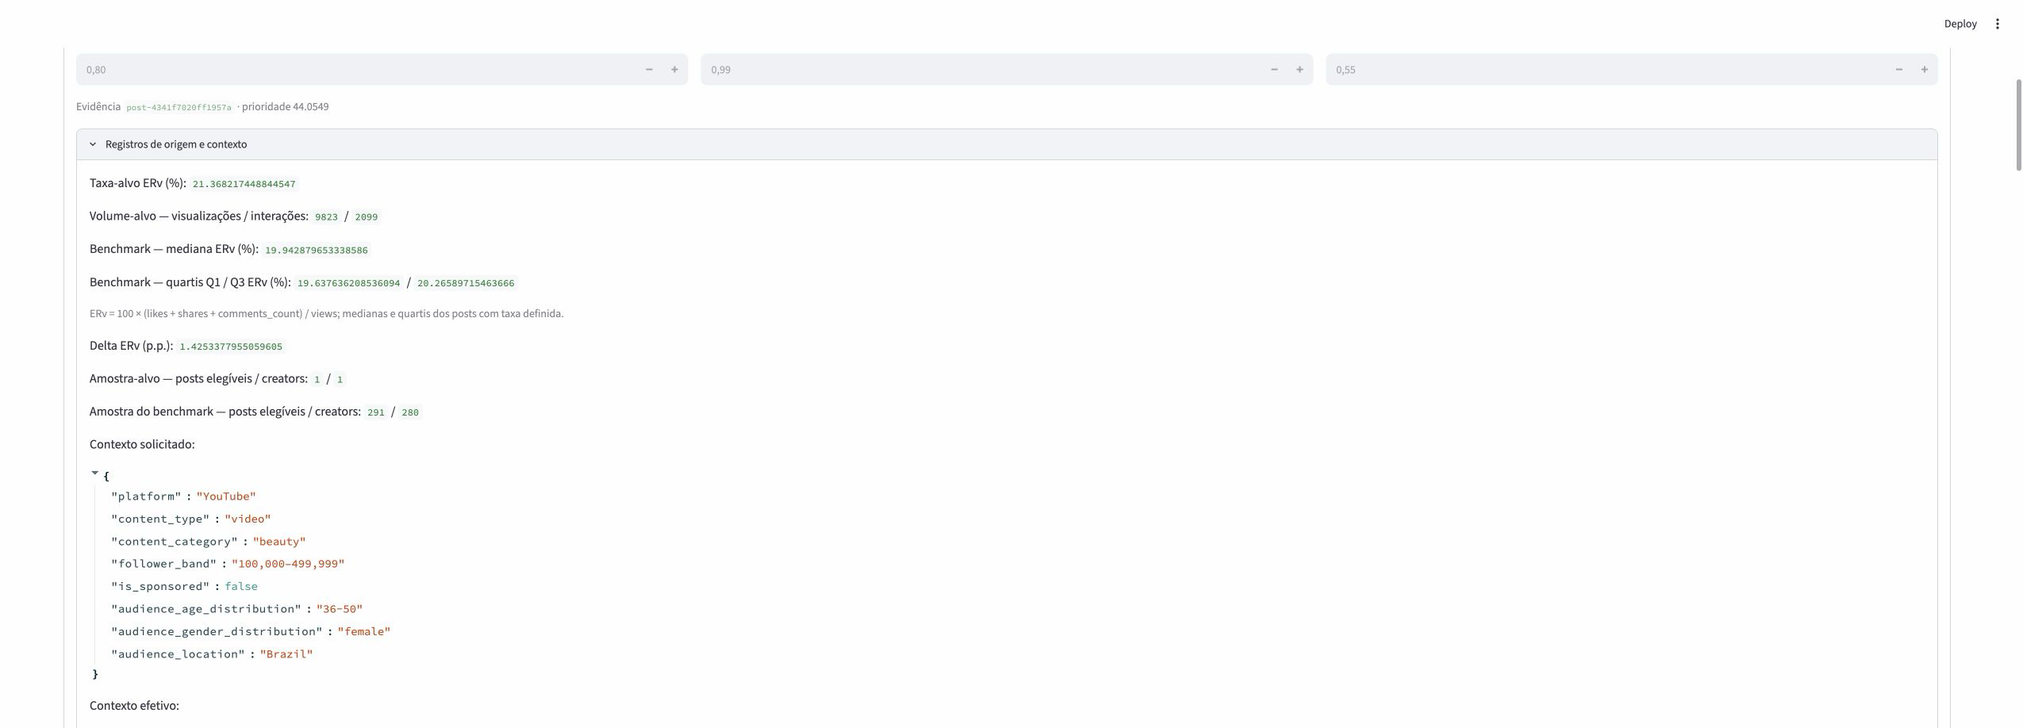
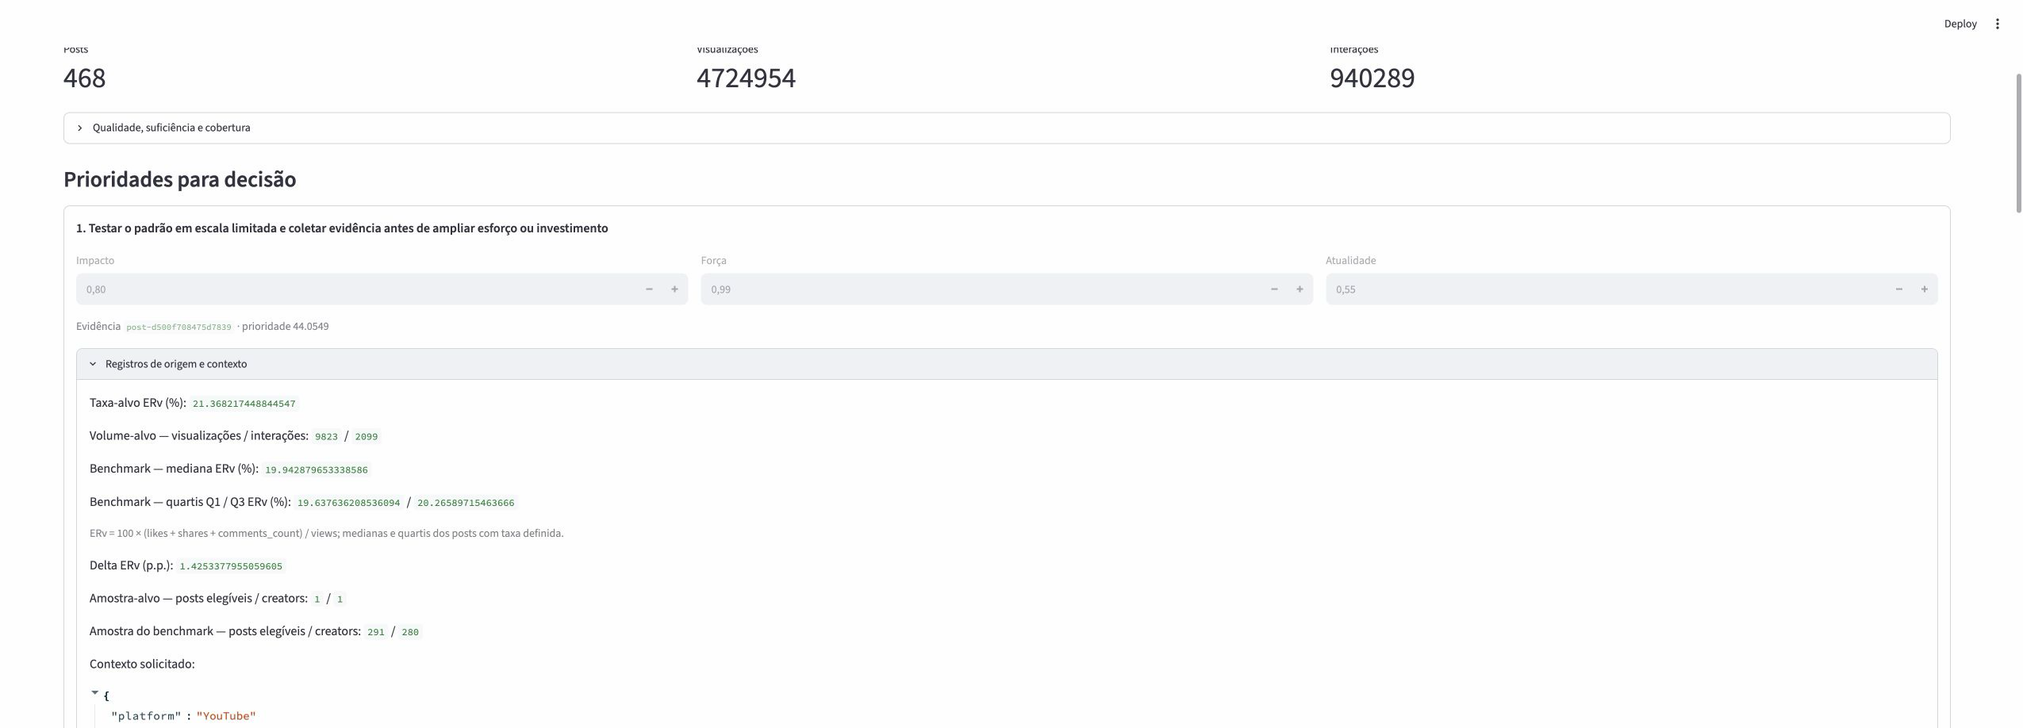
docs(004): consolidate pass 5 acceptance

diff --git a/submissions/luis-roquette/process-log/004-social.md b/submissions/luis-roquette/process-log/004-social.md
@@ -490,6 +490,7 @@ Este ledger registra todas as perguntas, respostas, correções e decisões da d
 - **Atualização da Redundância Passada 2:** I38–I40 elevaram o método a `2.0.0`, fecharam parser/bordas/filtros, publicaram alvo e comparador, responderam audiência condicionada e preservaram snapshot/contrato de observação. O gate vigente é **102/102**; hashes atuais: CSV `017588dfa23f…`, Markdown `c65b42f631c…`, HTML `a90d85f64b20…`. As provas focais de I41 substituem as imagens antigas; HR-01 continua pendente.
 - **Atualização da Redundância Passada 3:** I42–I43 elevaram o contrato ativo a `2.1.0`, fecharam datas e inteiros nas bordas, impediram ação forte sobre sinal negativo fraco e criaram a barreira final `export_field`. O gate vigente é **109/109**; hashes atuais: CSV `3a91736cd23c…`, Markdown `8fd5a1e524b7…`, HTML `a5cf43b65d56…`. A prova focal de fonte/qualidade foi renovada em I44; históricos 2.0.0 permanecem apenas como eventos legíveis e incompatíveis. HR-01 continua pendente.
 - **Atualização da Redundância Passada 4:** a auditoria encontrou quatro lacunas e, portanto, foi **clean=false**: mediana temporal incorreta no editorial, overflow derivado no limite de 2262, perda da fila além do top 3 e ausência de metadados de período parcial no export. Os commits `d2d5c879`, `92a05dc` e `6499f7c` corrigiram os quatro pontos, elevaram o método a `2.2.0` e o gate a **116/116**. Hashes atuais: CSV `9fb2d4dbc769…`, Markdown `4038018d466e…`, HTML `99a493cbc7cd…`. Esta passada reinicia o contador: **0 de 2 passadas limpas**.
+- **Atualização da Redundância Passada 5:** a auditoria encontrou duas lacunas e, portanto, foi **clean=false**: o CSV perdia recomendações além do top 3 e a cronologia de outcomes misturava calendário civil da fonte com UTC. `d2d2dbe` e `56546aa` fecharam fila/baseline integral e calendário `+14:00`/`-12:00`/naive, elevaram o método a `2.3.0` e o gate a **119/119**. O CSV agora contém seis recomendações e 6.703 registros. Esta passada reinicia o contador: **0 de 2 passadas limpas**; I46 preserva os hashes e a prova completa.
 - **Handoff honesto:** automação não é um Gestor de Social Media. HR-01 continua pendente até um operador humano executar upload → explicação → decisão em até cinco minutos. O pacote está tecnicamente reproduzível, mas a Definition of Done integral permanece aberta por esse único gate humano.
 
 ### Matriz de aceitação final
@@ -501,16 +502,16 @@ Este ledger registra todas as perguntas, respostas, correções e decisões da d
 | CK-03 | pass | fallback, IQR, creators e abstinência em `test_analysis.py` |
 | CK-04 | pass | estratos controlados também por mês-calendário, contraparte contemporânea e cobertura explícita; I32–I35 |
 | CK-05 | pass | dimensões, audiência, tempo e falhas em relatório/UI |
-| CK-06 | pass | prioridade recomposta com mediana temporal real, ordem estável e fila completa além do top 3; `test_analysis.py`, `test_app.py`, I45 |
+| CK-06 | pass | prioridade recomposta com mediana temporal real, ordem estável, seis ações exportadas e fila completa decidível; `test_analysis.py`, `test_queue_export.py`, I45–I46 |
 | CK-07 | pass | esforço, público, frequência mensal por semanas completas, patrocínio, creators, interrupção e quick wins; I34–I35 |
-| CK-08 | pass | decisão/revisão preservam texto, snapshot alvo/comparador, IDs por papel, idempotência, reinício e ação adicional; `test_storage.py`, `test_app.py`, I38–I45 |
-| CK-09 | pass | contrato observado reaplica segmento/estatística; relógio real bloqueia futuro, replay é SIMULAÇÃO, método antigo é incompatível e negativo fraco pede coleta; I40–I45 |
-| CK-10 | pass | HTML normal/adversarial em uma A4; período solicitado/efetivo/parcial exportado; CSV reconstruído na ordem `export_field` → `analysis_field` → `history_field`; cinco provas focais fiéis; I39–I45 |
-| CK-11 | pass | app local/teclado, fila completa, sem conta, API ou ação automática; I26–I45 |
+| CK-08 | pass | decisão/revisão preservam texto, envelope integral, snapshot alvo/comparador, IDs por papel, idempotência, reinício e ação adicional; `test_storage.py`, `test_queue_export.py`, I38–I46 |
+| CK-09 | pass | contrato observado reaplica segmento/estatística; calendário da fonte governa cronologia/futuro, replay é SIMULAÇÃO e método antigo é incompatível; I40–I46 |
+| CK-10 | pass | HTML normal/adversarial em uma A4; período solicitado/efetivo/parcial exportado; CSV integral reconstruído na ordem `export_field` → `analysis_field` → `history_field`; cinco provas focais fiéis; I39–I46 |
+| CK-11 | pass | app local/teclado, fila completa, sem conta, API ou ação automática; I26–I46 |
 | HR-01 | **pending** | exige Gestor de Social Media humano cronometrado |
 | HR-02 | pass | `analysis.md` legível sem dashboard e ligado a `evidence.csv` |
-| HR-03 | pass | I01–I45 preservam pesquisa, 24 ondas, decisões, falhas, correções e limites |
-| HR-04 | pass | setup, cinco provas focais, remoção do diário 001 e auditoria Git restrita à submissão; I37 e I45 |
+| HR-03 | pass | I01–I46 preservam pesquisa, 24 ondas, decisões, falhas, correções e limites |
+| HR-04 | pass | setup, cinco provas focais, remoção do diário 001 e auditoria Git restrita à submissão; I37, I45 e I46 |
 
 ### Rubricas finais
 
@@ -719,3 +720,14 @@ Este ledger registra todas as perguntas, respostas, correções e decisões da d
 - **Gate limpo pós-correção:** venv novo `/tmp/ai-master-004-s4-r4.FOaW4r`, Python 3.14.2 e `pip check` sem dependências quebradas. `PYTHONWARNINGS=error` aprovou **116/116 em 14,704 s** (24,10 s total), pico RSS 379.600.896 bytes e zero swap; mensagens conhecidas de `ScriptRunContext` foram logging, não warnings Python suprimidos. `compileall` e `git diff --check` passaram.
 - **Determinismo e artefatos:** duas CLIs reais (22,98 s e 18,99 s; pico RSS até 566.116.352 bytes; zero swap) produziram os três arquivos idênticos byte a byte, e CSV/Markdown coincidiram com os publicados. CSV: 21.821.815 bytes, `9fb2d4dbc769…`; Markdown: 19.947 bytes, `4038018d466e…`; HTML: 6.681 bytes, `99a493cbc7cd…`.
 - **Reconstrução, impressão e escopo:** o leitor padrão independente recompôs 6.700 registros, 679.596 vínculos e 52.214 IDs; maior campo 4.500, limite padrão 131.072. `verify_print.py` produziu normal/adversarial em uma página A4, inspecionados sem corte; hashes PDF `59bbd7c1b361…` / `1c77b4b744f2…`, incluindo período parcial no adversarial. Trinta links locais, cinco PNGs, escopo Git e arquivos proibidos passaram. HR-01 humano e publicação em `submission/luis-roquette` continuam externos; sem push, PR, deploy ou API paga.
+
+## I46 — Redundância Necessária, passada 5: fila integral e calendário da fonte — 2026-09-22
+
+- **Estado da passada:** `clean=false`, dois achados médios e contador reiniciado em **0 de 2 passadas limpas**. O relatório independente `.specs/scratchpad/redundancy-pass-5-20260922-124700.md` encontrou perda da cauda da fila no CSV/baseline e mistura de datas civis da fonte com UTC nos outcomes. HR-01 e branch de publicação permanecem gates externos, não achados técnicos.
+- **R5-01 — fila e baseline integrais:** `d2d2dbe` faz o CSV percorrer `all_recommendations`, com fallback legado, e preserva no baseline rank, score, normalização, componentes, frequência e ação. O top 3 continua sendo a síntese HTML/Markdown; as seis ações auditáveis ficam na mesma ordem do CSV e da UI. O artefato canônico agora tem 6 recomendações e 6.703 registros.
+- **R5-02 — calendário civil da fonte:** `56546aa` projeta decisão, registro, relógio, execução e observação no offset declarado em `target_start`/`target_end_exclusive`. Regressões cobrem `+14:00`, `-12:00`, fonte naive, futuro e reabertura. Sem offset, a parede civil é preservada; nenhum offset é inventado. Eventos históricos já persistidos não são retroclassificados.
+- **Jornada construtiva:** o arquiteto confrontou novamente a promessa de auditabilidade com o pacote exportado; o engenheiro devolveu cada lacuna à camada responsável; o feedback confirmou fila e cronologia com probes adversariais; a evidência decidiu o fechamento técnico. Como houve correções, a Passada 5 não avança o goal de redundância.
+- **Gate limpo pós-correção:** venv novo `/tmp/ai-master-004-s4-r5.BG4UrK`, Python 3.14.2 e `pip check` sem dependências quebradas. `PYTHONWARNINGS=error` aprovou **119/119 em 16,000 s** (23,69 s total), pico RSS 379.863.040 bytes e zero swap. `compileall` e `git diff --check` passaram; as mensagens conhecidas de `ScriptRunContext` são logging do AppTest, não warnings Python silenciados.
[1 lines of base64/hex data omitted]
+- **Reconstrução, A4 e prova visual:** o leitor padrão independente recompôs 6.703 registros, 679.596 vínculos e 52.214 IDs; maior campo 4.500 e limite 131.072. Normal/adversarial permaneceram em uma página A4, visualmente sem corte, hashes PDF `d67573f574ab…` / `a65934ea2637…`. Chrome real recebeu o CSV canônico e renovou três capturas 2550×918: fonte/qualidade 2.3.0 `6a093fe50c97…`, quarta ação `c125589d2243…` e contexto prioritário `339a3a564c32…`. Snapshot/outcomes 2.0.0 permanecem históricos, legíveis e incompatíveis com 2.3.0.
+- **Limites:** HR-01 continua reservado a um Gestor de Social Media humano cronometrado; publicação na branch exigida depende de autorização. Sem push, PR, deploy ou API paga.

diff --git a/submissions/luis-roquette/solution/004-social/README.md b/submissions/luis-roquette/solution/004-social/README.md
@@ -33,9 +33,9 @@ python submissions/luis-roquette/solution/004-social/analysis.py \
   --report /tmp/analysis.md
 ```
 
[2 lines of base64/hex data omitted]
 
-As três prioridades históricas mantiveram scores e ordem, agora sob IDs 2.2.0: `sponsorship-9bc1a9a0add291a4`, `sponsorship-311c45798ab57cdf` e `sponsorship-d2421615bf5d4277`.
+As três prioridades executivas mantiveram scores e ordem sob IDs 2.3.0: `sponsorship-424e514026f65b4e`, `sponsorship-356e6a6a33bbaf2b` e `sponsorship-8043e720f477a417`. O CSV preserva ainda `sponsorship-5feb0d6da02b1272`, `sponsorship-4d7b76584368632e` e `sponsorship-dcb0a8ef32c2d428`, na mesma fila decidível da UI.
 
 ## Executar o cockpit
 
@@ -62,13 +62,13 @@ O navegador automatizado concluiu esse fluxo técnico, inclusive erro sem perda 
 
 Cada decisão guarda o snapshot exato do motor: alvo, comparador, quartis/fallback, força, contexto e referências. Patrocínio mantém separados os braços e usa mediana das medianas por creator; editorial usa apenas o grupo orgânico definido; alertas preservam post/benchmark e um agregado contextual separado para acompanhamento. A observação posterior reaplica esse contrato à nova fonte; só a janela temporal muda, não categoria, audiência, patrocínio ou estatística. Creators sem taxa definida não satisfazem a amostra mínima.
 
-O histórico mostra o snapshot mesmo sem CSV. Reenviar o mesmo hash verifica referências pelo escopo salvo, inclusive quando a recomendação não está na fila ativa ou os filtros mudaram. `METHOD_VERSION = "2.2.0"` é o contrato ativo. Eventos `1.0.0`, `2.0.0` e `2.1.0` continuam legíveis, mas são incompatíveis para nova comparação automática e ficam `pending / method_mismatch`. As capturas históricas/outcomes preservadas na submissão registram eventos criados sob 2.0.0; não são apresentadas como nova comparação 2.2.0.
+O histórico mostra o snapshot mesmo sem CSV. Reenviar o mesmo hash verifica referências pelo escopo salvo, inclusive quando a recomendação não está na fila ativa ou os filtros mudaram. `METHOD_VERSION = "2.3.0"` é o contrato ativo. Eventos `1.0.0`, `2.0.0`, `2.1.0` e `2.2.0` continuam legíveis, mas são incompatíveis para nova comparação automática e ficam `pending / method_mismatch`. As capturas históricas/outcomes preservadas na submissão registram eventos criados sob 2.0.0; não são apresentadas como nova comparação 2.3.0.
 
 A entrada aceita somente ISO-8601 explícito ou `%m/%d/%y %I:%M %p`, dentro de 1971-01-01 a 2262-04-10. Datas relativas, timezone desconhecido e gramática inferida são rejeitados com linha/coluna. Inteiros são provados lexicalmente contra `int64`, sem alterar o limite global do Python. Semanas/meses são calculados como datas civis e convertidos depois do clipping, inclusive no limite superior de 2262. Sinal negativo com força abaixo de 0,40 gera coleta/teste; `review/stop` exige força suficiente.
 
-A recência agregada usa a mediana temporal real, não o elemento central superior. O top 3 permanece como síntese, mas `all_recommendations` preserva a fila deduplicada completa; a UI permite detalhar e decidir ações adicionais sem trocar filtros/scores. Seleções semanal/mensal exportam modo, janela solicitada, janela efetiva e `partial_period` no CSV, HTML e Markdown.
+A recência agregada usa a mediana temporal real, não o elemento central superior. O top 3 permanece como síntese, mas `all_recommendations` preserva a fila deduplicada completa; a UI permite detalhar e decidir ações adicionais sem trocar filtros/scores. O CSV exporta a fila integral e cada baseline preserva rank, score, normalização, componentes, hipótese de frequência e ação. Seleções semanal/mensal exportam modo, janela solicitada, janela efetiva e `partial_period` no CSV, HTML e Markdown.
 
-Datas de execução ou fim da observação futuras ficam pendentes (`execution_in_future` / `observation_in_future`); o timestamp enviado não pode adiantar o relógio real. Testes injetam relógio controlado após o fim observado. Para uma demonstração sintética/retrospectiva explícita, use banco separado e defina `SOCIAL_COCKPIT_SIMULATION_NOW=2025-01-22T18:00:00+00:00` ao iniciar o comando Streamlit acima. O app exibe **SIMULAÇÃO / REPLAY RETROSPECTIVO**, e eventos persistem essa marca. Remova a variável ao retornar à produção; simulação não autoriza datas futuras em relação ao relógio controlado.
+Datas de execução ou fim da observação futuras ficam pendentes (`execution_in_future` / `observation_in_future`); o timestamp enviado não pode adiantar o relógio real. Decisão, registro, relógio, execução e janela observada são comparados no calendário civil declarado pela fonte, inclusive `+14:00`, `-12:00` e fonte naive sem offset inventado. A regra vale para novos registros; eventos históricos persistidos não são retroclassificados. Testes injetam relógio controlado após o fim observado. Para uma demonstração sintética/retrospectiva explícita, use banco separado e defina `SOCIAL_COCKPIT_SIMULATION_NOW=2025-01-22T18:00:00+00:00` ao iniciar o comando Streamlit acima. O app exibe **SIMULAÇÃO / REPLAY RETROSPECTIVO**, e eventos persistem essa marca. Remova a variável ao retornar à produção; simulação não autoriza datas futuras em relação ao relógio controlado.
 
 Exemplo de replay: registre a decisão com relógio em `2025-01-14T18:00:00+00:00`; reinicie em `2025-01-22T18:00:00+00:00` e observe a janela 15–21/01. A decisão precisa anteceder a observação também na simulação.
 

diff --git a/submissions/luis-roquette/solution/004-social/IMPLEMENTATION-PLAN.md b/submissions/luis-roquette/solution/004-social/IMPLEMENTATION-PLAN.md
@@ -4,8 +4,8 @@
 
 - Tasks 1–5 e os checks independentes da Task 6 foram implementados e validados; os checkboxes abaixo registram o estado executado sem apagar o plano original.
 - A comparação de patrocínio controla também `calendar_month`; a frequência usa somente semanas ISO completas dentro do mesmo mês/contexto. O histórico CSV conserva proveniência por evento; a barreira final `export_field` cobre qualquer célula extensa antes de `analysis_field` e `history_field`.
[1 lines of base64/hex data omitted]
-- A Passada 4 corrigiu mediana temporal, aritmética civil/clipping no limite de 2262, preservação da fila completa com drill-down/decisão além do top 3 e metadados de cobertura temporal no export. Replay retrospectivo é sempre rotulado **SIMULAÇÃO**; futuro permanece `pending / observation_in_future`.
[1 lines of base64/hex data omitted]
+- A Passada 5 fechou a exportação da fila integral e seu baseline, mantendo somente top 3 no HTML/Markdown executivo, e alinhou toda a cronologia de outcomes ao calendário civil declarado pela fonte (`+14:00`, `-12:00` ou naive). Eventos históricos não são retroclassificados. Replay retrospectivo é sempre rotulado **SIMULAÇÃO**; futuro permanece `pending / observation_in_future`.
 - A implementação local foi autorizada e executada após a revisão humana registrada no diário. **HR-01 continua pendente**; push, PR, merge e deploy continuam não autorizados. A branch atual difere da branch exigida e só será reconciliada no gate de publicação.
 
 > **For agentic workers:** REQUIRED SUB-SKILL: Use `superpowers:subagent-driven-development` (recommended) or `superpowers:executing-plans` to implement this plan task-by-task. Steps use checkbox (`- [ ]`) syntax for tracking.
@@ -203,7 +203,7 @@ Expected: import failure for `analysis`; no test may pass accidentally.
 
 - [x] **Step 5: Implement strict parsing and diagnostics**
 
-In `analysis.py`, define `REQUIRED_COLUMNS`, `OPTIONAL_COLUMNS`, `METRIC_COLUMNS` and `METHOD_VERSION = "2.2.0"`. `load_csv` must (o texto abaixo registra a intenção inicial; I38 substituiu `pandas.read_csv` por interpretação única com `csv.reader`, I42 tornou datas/números estritos e a Passada 4 fechou aritmética civil/clipping):
+In `analysis.py`, define `REQUIRED_COLUMNS`, `OPTIONAL_COLUMNS`, `METRIC_COLUMNS` and `METHOD_VERSION = "2.3.0"`. `load_csv` must (o texto abaixo registra a intenção inicial; I38 substituiu `pandas.read_csv` por interpretação única com `csv.reader`, I42 tornou datas/números estritos, a Passada 4 fechou aritmética civil/clipping e a Passada 5 fechou fila/baseline e calendário da fonte):
 
 ```python
 source_hash = hashlib.sha256(raw).hexdigest()

diff --git a/submissions/luis-roquette/README.md b/submissions/luis-roquette/README.md
@@ -30,17 +30,17 @@ Analisei 52.214 posts de cinco plataformas e construí um cockpit local para con
 - Mediana ERv geral: 19,8992%; ERv ponderado: 19,9035%. As diferenças agregadas entre plataformas, formatos e categorias são pequenas e não justificam redistribuição isolada.
 - Patrocínio: 12 estratos mensais elegíveis, 5.216 sem contraparte/amostra suficiente e cobertura de 1,55897% dos posts, controlando plataforma, formato, categoria, faixa de creator e mês-calendário.
 - Maior associação patrocinada observada: YouTube / video / lifestyle / 500.000+ / abril de 2024, +0,160707 p.p. de ERv; menor: Bilibili / video / lifestyle / 500.000+ / setembro de 2023, −0,136225 p.p. Nenhuma é efeito causal ou ROI.
-- O cockpit mantém posts zero/taxas indefinidas, explica benchmark/amostra/força até as linhas de origem, preserva a fila completa além do top 3, bloqueia cronologia inválida, registra aceitar/rejeitar/editar e preserva revisões/outcomes após reinício. O CSV conserva proveniência, período solicitado/efetivo e semântica de cada evento histórico; uma barreira `export_field` fecha qualquer célula extensa antes das camadas reconstruíveis de análise/histórico.
+- O cockpit mantém posts zero/taxas indefinidas, explica benchmark/amostra/força até as linhas de origem, preserva e exporta as seis ações da fila completa além do top 3 e guarda seu envelope no baseline. A cronologia usa o calendário civil declarado pela fonte (`+14:00`, `-12:00` ou naive); revisões/outcomes sobrevivem ao reinício. O CSV conserva 6.703 registros, proveniência, período solicitado/efetivo e semântica histórica; `export_field` fecha células extensas antes das camadas reconstruíveis de análise/histórico.
 
-![Fonte canônica, período, método 2.2.0 e diagnóstico de qualidade](./process-log/evidence/004/cockpit-source-quality-proof.png)
+![Fonte canônica, período, método 2.3.0 e diagnóstico de qualidade](./process-log/evidence/004/cockpit-source-quality-proof.png)
 
 ![Quarta ação elegível acessível com componentes, evidência e drill-down sem alterar filtros](./process-log/evidence/004/cockpit-audience-priority-proof.png)
 
 ![Prioridade com taxa-alvo, benchmark, quartis e amostra](./process-log/evidence/004/cockpit-priority-context-proof.png)
 
-![Snapshot histórico após reinício; evento 2.0.0 preservado e legível, mas incompatível com nova comparação 2.2.0](./process-log/evidence/004/cockpit-history-snapshot-proof.png)
+![Snapshot histórico após reinício; evento 2.0.0 preservado e legível, mas incompatível com nova comparação 2.3.0](./process-log/evidence/004/cockpit-history-snapshot-proof.png)
 
-![Histórico 2.0.0: replay observado rotulado SIMULAÇÃO e futuro pendente por observation_in_future; sem nova comparação 2.2.0](./process-log/evidence/004/cockpit-outcomes-proof.png)
+![Histórico 2.0.0: replay observado rotulado SIMULAÇÃO e futuro pendente por observation_in_future; sem nova comparação 2.3.0](./process-log/evidence/004/cockpit-outcomes-proof.png)
 
 ### Recomendações
 
@@ -69,7 +69,7 @@ Analisei 52.214 posts de cinco plataformas e construí um cockpit local para con
 | Codex | Pesquisa, ondas socráticas, SDD, implementação, regressões, documentação e auditoria final |
 | Claude Code | Skill SDD e estruturação inicial dos artefatos de especificação |
 | Chrome automatizado | Validação do upload real, decisões, reinício, erros, downloads e prova visual |
-| Python/Pandas/unittest | Motor determinístico, reconciliação e 116 testes locais |
+| Python/Pandas/unittest | Motor determinístico, reconciliação e 119 testes locais |
 
 ### Workflow
 

diff --git a/submissions/luis-roquette/solution/004-social/SPEC.md b/submissions/luis-roquette/solution/004-social/SPEC.md
@@ -8,9 +8,10 @@ title: Implementar cockpit decisório de social media
 
 - A revisão humana da SPEC foi registrada, a implementação local foi autorizada e as fases S1–S4 foram executadas. O texto abaixo permanece como contrato e registro pré-implementação; verbos no futuro descrevem a intenção original, não o estado atual.
 - Estado verificado: comparação de patrocínio por plataforma, formato, categoria, faixa de creator e **mês-calendário**; hipótese de frequência restrita às semanas ISO completas dentro do mesmo mês/contexto; decisões/outcomes exportados com proveniência própria. Campos extensos usam uma barreira final `export_field`, reconstruída antes das camadas `analysis_field` e `history_field`.
[2 lines of base64/hex data omitted]
 - Datas aceitas são ISO-8601 explícito ou `%m/%d/%y %I:%M %p`, na faixa operacional de 1971-01-01 a 2262-04-10; gramática relativa, timezone desconhecido e inferência são bloqueados com linha/coluna. Inteiros passam por comparação lexical `int64`, inclusive entradas extensas, sem alterar o limite global do Python. Evidência negativa com `C<0,40` recomenda coleta/teste em escala limitada; somente força suficiente permite `review/stop`.
 - O snapshot de decisão preserva alvo, comparador, estatística, unidade, controles, cobertura, força e referências por papel. A observação reaplica o mesmo segmento e só substitui a janela temporal. Fim observado ou execução no futuro ficam `pending`; replay retrospectivo exige relógio explícito e rótulo **SIMULAÇÃO** persistido.
+- O baseline de cada decisão preserva também o envelope completo da recomendação — rank integral, score, normalização, componentes, hipótese de frequência e texto operacional — inclusive além do top 3. A cronologia de outcomes projeta decisão, registro, relógio e execução no calendário civil declarado pela fonte (`+14:00`, `-12:00` ou naive), sem inventar timezone e sem retroclassificar eventos históricos já persistidos.
 - CK-01–11 e HR-02–04 possuem evidência independente. **HR-01 permanece pendente** até um Gestor de Social Media concluir o roteiro cronometrado em até cinco minutos. Isso mantém a Definition of Done integral aberta. Push, PR, merge e deploy não foram autorizados.
 
 **Status original em 21/09/2026:** pronta para revisão humana; implementação ainda não autorizada.
